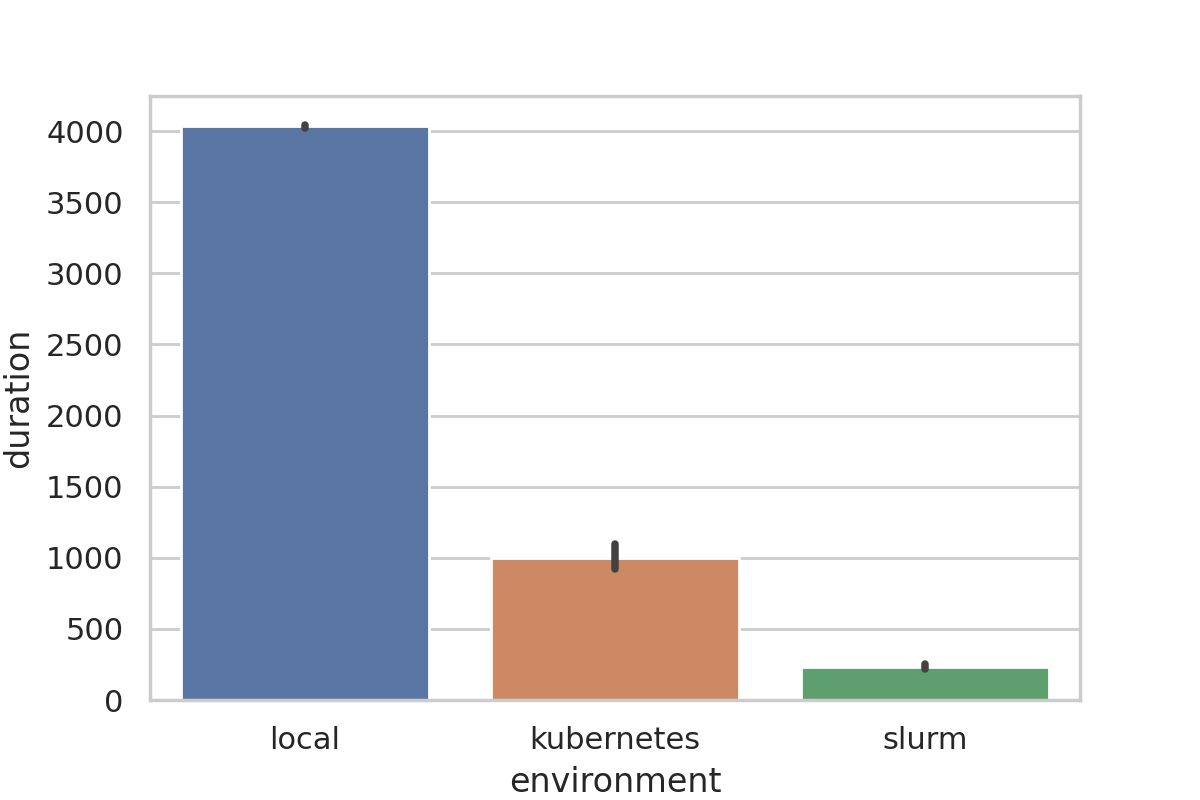
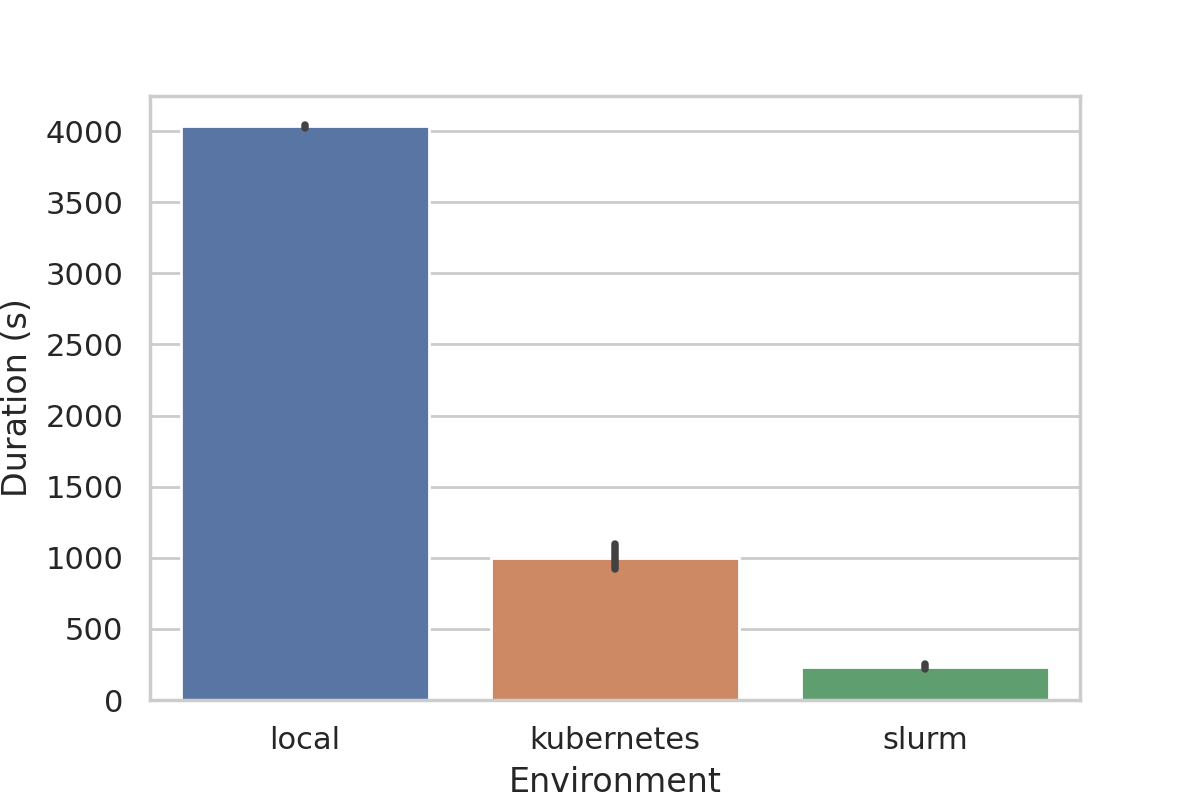
add data for mlperf issue exploration (#31)
* add the mlperf issue numbers
* fix wrong code highlights
* updates to the plot

diff --git a/paper.md b/paper.md
@@ -294,7 +294,7 @@ The training pod used the single GPU of the node on which it was scheduled.
 Reproducing the workflow developed on the local machine in the Kubernetes cluster only requires changing the resource manager specifications in the configuration file like specifying Kubernetes as the requested resource manager, specifying the `PersistentVolumeClaim` size, the image registry credentials, etc.
 The training was configured with an overfitting patience of 5 and was allowed to run till it overfits similar to what was done for the local machine case study.
 
-As we can see from @Fig:casestudies, the average training duration was almost `1/4th` of what it took to train on the local machine.
+As we can see from @Fig:casestudies, the average training duration was almost 1/4th of what it took to train on the local machine.
 This shows how Popper helps improve the performance of scientific workflows drastically by allowing easy reproduction in cloud infrastructure.
 
 ### Workflow execution in Slurm clusters
@@ -335,14 +335,14 @@ By setting up CI, users can continuously validate changes made to their workflow
 
 # Discussion {#sec:result}
 
-![Comparison of training durations in 3 different computing environments with Popper. The Y axis denotes time in seconds.](./figures/plot.png){#fig:casestudies}
+![Comparison of training durations in 3 different computing environments with Popper.](./figures/plot.png){#fig:casestudies}
 
 A summary of the training duration and accuracy obtained by running the workflow in three different computing environment is shown in @Fig:casestudies.
 As one would expect, running the same workflow on better, larger hardware resources reduces the amount of time needed to train the models.
 
 This case study showcases the benefits of using Popper: having portable workflows drastically reduces software development and debugging time by enabling developers and researchers to quickly iterate and test the same workflow logic in different computing environments.
 To expand on this point, we analyzed the GitHub repository for the MLPerf [@mattson2019mlperf] machine learning (ML) training benchmark suite that can be found at <https://github.com/mlperf/training>.
-From a total of **`XX`** issues, `XX%` were related to problems of reproducibility: missing or outdated versions of dependencies, documentation not aligning with the code, missing or broken links for datasets; etc.
+From a total of 123 issues, 67 were related to problems of reproducibility: missing or outdated versions of dependencies, documentation not aligning with the code, missing or broken links for datasets; etc.
 Popper can solve much of the problems generally noticed in reproducing research artifacts like these we found.
 
 As exemplified in the use cases, Popper helps build workflows that can be run on Cloud and HPC environments asides the local machine with minimal changes in configuration in a sustainable fashion.
